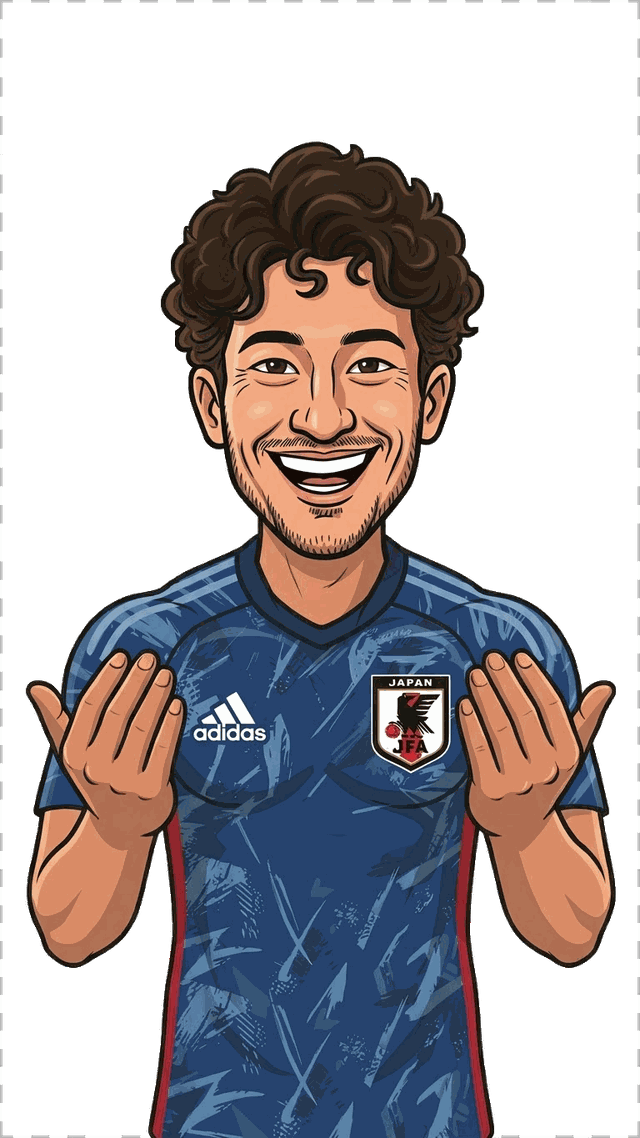
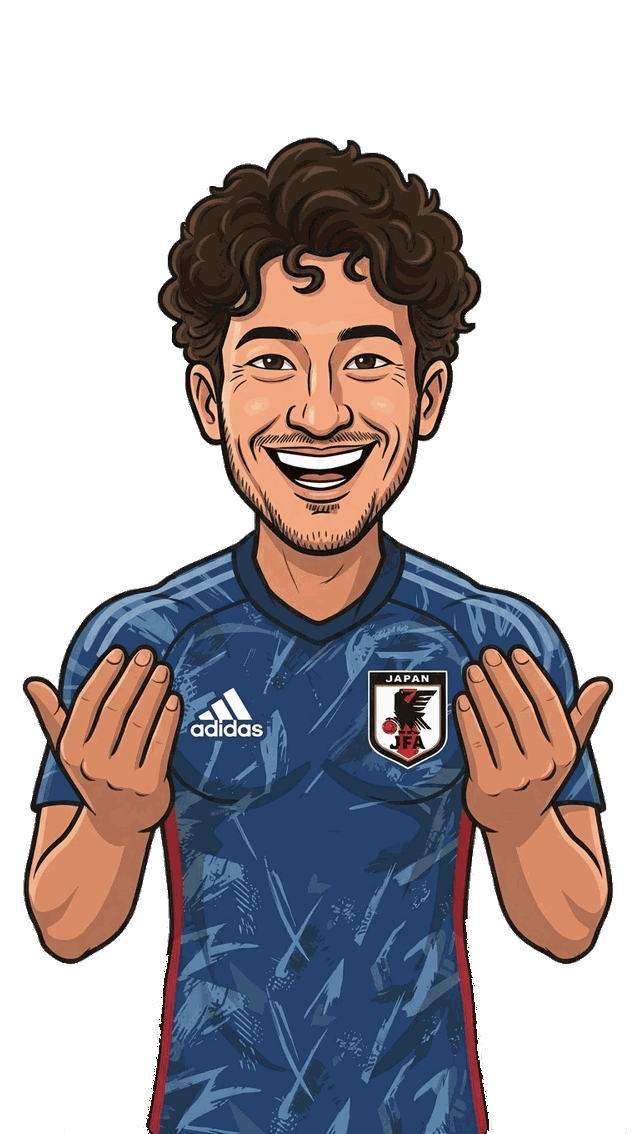
v232: weißen Rand bei Japan-Portraets behoben + Naoki-Toru-Positionierung
Ursache für das gemeldete weiße Viereck um Ryuka/Naoki (und vermutlich die
übrigen Japan-Karten): beim Freistellen war an allen vier Bildrändern ein
dünner, fast voll deckender Streifen der Schachbrett-Hintergrundfarbe stehen
geblieben (Alpha ~250-255 statt 0) - vermutlich weil der Helligkeitsverlauf
im Hintergrund der Originalfotos breiter war als die erkannten zwei
Referenztöne + Toleranz abdecken konnten. Alle 5 spieler-jp-*.png wurden mit
einem zweiten Reinigungsschritt nachbearbeitet, der vom Bildrand aus durch
neutrale (graue) Pixel flutet und sie auf Alpha 0 setzt, ohne echte Haut-/
Haar-/Kleidungs-Pixel anzutasten (jedes Bild einzeln gegen Grün/Rot visuell
geprüft).

Zusätzlich .fa-karte-portrait gegen Drag/Touch-Callout/Selection gehärtet
(-webkit-user-drag, user-select, touch-callout, pointer-events: none) und
draggable="false" auf dem Portrait-<img>, als Absicherung gegen ähnliche
Rand-Artefakte durch native Browser-Bedienhilfen.

Naoki Toru (jp-5) und Kebin Hofuchi (jp-3) haben ein ungewöhnlich schmales/
hochkantiges Bildformat (Breite:Höhe ~0.56 statt ~1.05 bei den anderen
Karten) und wirkten dadurch bei fixer Portraet-Höhe automatisch kleiner und
weiter rechts am Kartenrand. Neuer PORTRAET_GROESSE-Export in design.js
(Höhen-/Bottom-Override pro Karten-ID) behebt das, kombiniert mit dem
bestehenden horizontalen PORTRAET_VERSATZ.

Außerdem CACHE_NAME/APP_VERSION nachgezogen: die waren in den letzten zwei
[…]

diff --git a/spiele/fussball-auktion/design.js b/spiele/fussball-auktion/design.js
@@ -156,16 +156,16 @@ export function nationDesign(nation) {
 // Alle Karten, die hier NICHT eingetragen sind, bekommen automatisch die
 // gezeichnete Platzhalter-Silhouette (siehe kartenPortraitHtml in spiel.js).
 export const PORTRAET_BILDER = {
-  "it-1": "bilder/fussball-auktion/spieler-it-1.png?v=231",
-  "it-2": "bilder/fussball-auktion/spieler-it-2.png?v=231",
-  "it-3": "bilder/fussball-auktion/spieler-it-3.png?v=231",
-  "it-4": "bilder/fussball-auktion/spieler-it-4.png?v=231",
-  "it-5": "bilder/fussball-auktion/spieler-it-5.png?v=231",
-  "jp-1": "bilder/fussball-auktion/spieler-jp-1.png?v=231",
-  "jp-2": "bilder/fussball-auktion/spieler-jp-2.png?v=231",
-  "jp-3": "bilder/fussball-auktion/spieler-jp-3.png?v=231",
-  "jp-4": "bilder/fussball-auktion/spieler-jp-4.png?v=231",
-  "jp-5": "bilder/fussball-auktion/spieler-jp-5.png?v=231"
+  "it-1": "bilder/fussball-auktion/spieler-it-1.png?v=232",
+  "it-2": "bilder/fussball-auktion/spieler-it-2.png?v=232",
+  "it-3": "bilder/fussball-auktion/spieler-it-3.png?v=232",
+  "it-4": "bilder/fussball-auktion/spieler-it-4.png?v=232",
+  "it-5": "bilder/fussball-auktion/spieler-it-5.png?v=232",
+  "jp-1": "bilder/fussball-auktion/spieler-jp-1.png?v=232",
+  "jp-2": "bilder/fussball-auktion/spieler-jp-2.png?v=232",
+  "jp-3": "bilder/fussball-auktion/spieler-jp-3.png?v=232",
+  "jp-4": "bilder/fussball-auktion/spieler-jp-4.png?v=232",
+  "jp-5": "bilder/fussball-auktion/spieler-jp-5.png?v=232"
 };
 
 // Manche Porträts sind (je nach Bildausschnitt) von Natur aus breiter als
@@ -175,5 +175,19 @@ export const PORTRAET_BILDER = {
 // Versatz nach links angeben, in Prozentpunkten der Kartenbreite.
 export const PORTRAET_VERSATZ = {
   "it-2": 7,
-  "it-3": 9
+  "it-3": 9,
+  "jp-3": 14,
+  "jp-5": 14
+};
+
+// Manche Porträt-Ausschnitte sind von Natur aus deutlich schmaler/hochkanter
+// als die Standardfotos (Seitenverhältnis Breite:Höhe ~0.56 statt ~1.05),
+// z.B. wenn das Originalfoto eng um die Person zugeschnitten ist. Bei fixer
+// Höhe (siehe .fa-karte-portrait in stil.css) wirken diese Porträts dadurch
+// automatisch viel schmaler/kleiner. Pro Karten-ID lässt sich hier die Höhe
+// (in Prozentpunkten relativ zur Standardhöhe aus stil.css) sowie optional
+// der Bottom-Versatz (in Prozentpunkten der Kartenhöhe) anpassen.
+export const PORTRAET_GROESSE = {
+  "jp-3": { hoehe: 104, unten: 7 },
+  "jp-5": { hoehe: 104, unten: 7 }
 };

diff --git a/index.html b/index.html
@@ -18,7 +18,7 @@
   <link rel="preconnect" href="https://fonts.googleapis.com">
   <link rel="preconnect" href="https://fonts.gstatic.com" crossorigin>
   <link href="https://fonts.googleapis.com/css2?family=Barlow+Condensed:ital,wght@0,800;1,800&family=Bungee&display=swap" rel="stylesheet">
-  <link rel="stylesheet" href="stil.css?v=231">
+  <link rel="stylesheet" href="stil.css?v=232">
 </head>
 <body>
 
@@ -39,7 +39,7 @@
   <div id="start-screen" class="bildschirm-karte">
     <div class="start-hero">
       <div class="start-icon">
-        <img src="bilder/logo-fuchs-transparent.png?v=231" width="102" height="102" alt="" class="app-icon">
+        <img src="bilder/logo-fuchs-transparent.png?v=232" width="102" height="102" alt="" class="app-icon">
       </div>
       <h1>Trollhouse</h1>
       <p class="start-tagline">Ein Raum, ein Abend, viele Spiele</p>
@@ -192,11 +192,11 @@
   <div id="lobby-screen" class="bildschirm-karte" hidden>
     <div class="lobby-kopf">
       <div class="lobby-marke">
-        <span class="lobby-logo-badge"><img src="bilder/logo-fuchs-transparent.png?v=231" width="36" height="36" alt="" class="lobby-app-icon"></span>
+        <span class="lobby-logo-badge"><img src="bilder/logo-fuchs-transparent.png?v=232" width="36" height="36" alt="" class="lobby-app-icon"></span>
         <h1>Trollhouse</h1>
       </div>
       <button id="btn-lobby-verlassen" class="lobby-verlassen" type="button">
-        <img src="bilder/icon-raum-verlassen.svg?v=231" width="32" height="32" alt="">
+        <img src="bilder/icon-raum-verlassen.svg?v=232" width="32" height="32" alt="">
         <span class="nur-screenreader">Raum verlassen</span>
       </button>
     </div>
@@ -242,6 +242,6 @@
   <!-- ---------- Hierhin rendert das jeweils laufende Spiel ---------- -->
   <div id="spiel-wurzel"></div>
 
-  <script type="module" src="app.js?v=231"></script>
+  <script type="module" src="app.js?v=232"></script>
 </body>
 </html>

diff --git a/sw.js b/sw.js
@@ -4,7 +4,7 @@
 // Nur dann wirft der Browser den alten Zwischenspeicher weg und alle Spieler
 // bekommen zuverlässig die neue Version. Das ist der einzige Handgriff, den man
 // nach dem Bearbeiten von Dateien nicht vergessen darf.
-const CACHE_NAME = "trollhouse-v229";
+const CACHE_NAME = "trollhouse-v232";
 
 const DATEIEN = [
   "./",
@@ -47,16 +47,16 @@ const DATEIEN = [
   "spiele/fussball-auktion/logik.js",
   "spiele/fussball-auktion/design.js",
   "spiele/fussball-auktion/karten.json",
-  "bilder/fussball-auktion/spieler-it-1.png?v=231",
-  "bilder/fussball-auktion/spieler-it-2.png?v=231",
-  "bilder/fussball-auktion/spieler-it-3.png?v=231",
-  "bilder/fussball-auktion/spieler-it-4.png?v=231",
-  "bilder/fussball-auktion/spieler-it-5.png?v=231",
-  "bilder/fussball-auktion/spieler-jp-1.png?v=231",
-  "bilder/fussball-auktion/spieler-jp-2.png?v=231",
-  "bilder/fussball-auktion/spieler-jp-3.png?v=231",
-  "bilder/fussball-auktion/spieler-jp-4.png?v=231",
-  "bilder/fussball-auktion/spieler-jp-5.png?v=231",
+  "bilder/fussball-auktion/spieler-it-1.png?v=232",
+  "bilder/fussball-auktion/spieler-it-2.png?v=232",
+  "bilder/fussball-auktion/spieler-it-3.png?v=232",
+  "bilder/fussball-auktion/spieler-it-4.png?v=232",
+  "bilder/fussball-auktion/spieler-it-5.png?v=232",
+  "bilder/fussball-auktion/spieler-jp-1.png?v=232",
+  "bilder/fussball-auktion/spieler-jp-2.png?v=232",
+  "bilder/fussball-auktion/spieler-jp-3.png?v=232",
+  "bilder/fussball-auktion/spieler-jp-4.png?v=232",
+  "bilder/fussball-auktion/spieler-jp-5.png?v=232",
   "spiele/doppelblick/spiel.js",
   "spiele/blitzquiz/spiel.js",
   "spiele/blitzquiz/fragen.json",

diff --git a/spiele/fussball-auktion/spiel.js b/spiele/fussball-auktion/spiel.js
@@ -33,7 +33,7 @@ import {
 // Stechen (Tiebreak bei Gleichstand): 10 Sekunden Zeit zum Erhöhen, jedes
 // Erhöhen setzt den Timer zurück (siehe loeseAuktionsrundeAuf/pruefeStechenAblauf).
 const STECHEN_DAUER_MS = 10000;
-import { nationDesign, PORTRAET_BILDER, PORTRAET_VERSATZ } from "./design.js";
+import { nationDesign, PORTRAET_BILDER, PORTRAET_VERSATZ, PORTRAET_GROESSE } from "./design.js";
 
 const VORLAGE = `
   <div id="fa-setup" class="bildschirm-karte" hidden>
@@ -393,8 +393,13 @@ function kartenPortraitHtml(k, akzent) {
   const bild = PORTRAET_BILDER[k.id];
   if (bild) {
     const versatz = PORTRAET_VERSATZ[k.id];
-    const style = versatz ? ` style="right: calc(2% + ${versatz}%)"` : "";
-    return `<img class="fa-karte-portrait" src="${escapeHtml(bild)}" alt="${escapeHtml(k.name)}"${style}>`;
+    const groesse = PORTRAET_GROESSE[k.id];
+    const styleTeile = [];
+    if (versatz) styleTeile.push(`right: calc(2% + ${versatz}%)`);
+    if (groesse?.hoehe) styleTeile.push(`height: ${groesse.hoehe}%`);
+    if (groesse?.unten) styleTeile.push(`bottom: ${groesse.unten}%`);
+    const style = styleTeile.length ? ` style="${styleTeile.join("; ")}"` : "";
+    return `<img class="fa-karte-portrait" src="${escapeHtml(bild)}" alt="${escapeHtml(k.name)}" draggable="false"${style}>`;
   }
   // Platzhalter-Silhouette (Kopf + Schultern) für alle Karten ohne echtes Bild.
   return (

diff --git a/app.js b/app.js
@@ -13,9 +13,9 @@ import {
 // WICHTIG: bei jedem Versionssprung hier UND in spiele/register.js
 // (SPIEL_VERSION) mit hochzaehlen, sonst bekommen manche Geraete
 // Spiel-Fixes (spiele/<id>/spiel.js) verzoegert oder gar nicht mit.
-import { SPIELE, spielInfo } from "./spiele/register.js?v=231";
+import { SPIELE, spielInfo } from "./spiele/register.js?v=232";
 
-export const APP_VERSION = "v229";
+export const APP_VERSION = "v232";
 const appVersion = document.getElementById("app-version");
 appVersion.textContent = "Version " + APP_VERSION;
 

diff --git a/stil.css b/stil.css
@@ -2693,6 +2693,8 @@
 .fa-karte-portrait {
   position: absolute; z-index: 2; bottom: 13%; right: 2%; height: 64%; width: auto;
   filter: drop-shadow(0 8px 10px rgba(0, 0, 0, .4));
+  -webkit-user-drag: none; user-select: none; -webkit-touch-callout: none;
+  outline: none; border: none; pointer-events: none;
 }
 .fa-karte-platzhalter {
   position: absolute; z-index: 2; bottom: 19%; right: -2%; width: 54%; height: auto;

diff --git a/spiele/register.js b/spiele/register.js
@@ -18,7 +18,7 @@
 // in der Olympiade trotz Fix in v201/v202 teils noch bestehen lassen.
 // WICHTIG: bei jedem Versionssprung hier UND in app.js (Import von
 // register.js) mit hochzaehlen.
-const SPIEL_VERSION = "231";
+const SPIEL_VERSION = "232";
 
 export const SPIELE = [
   {
